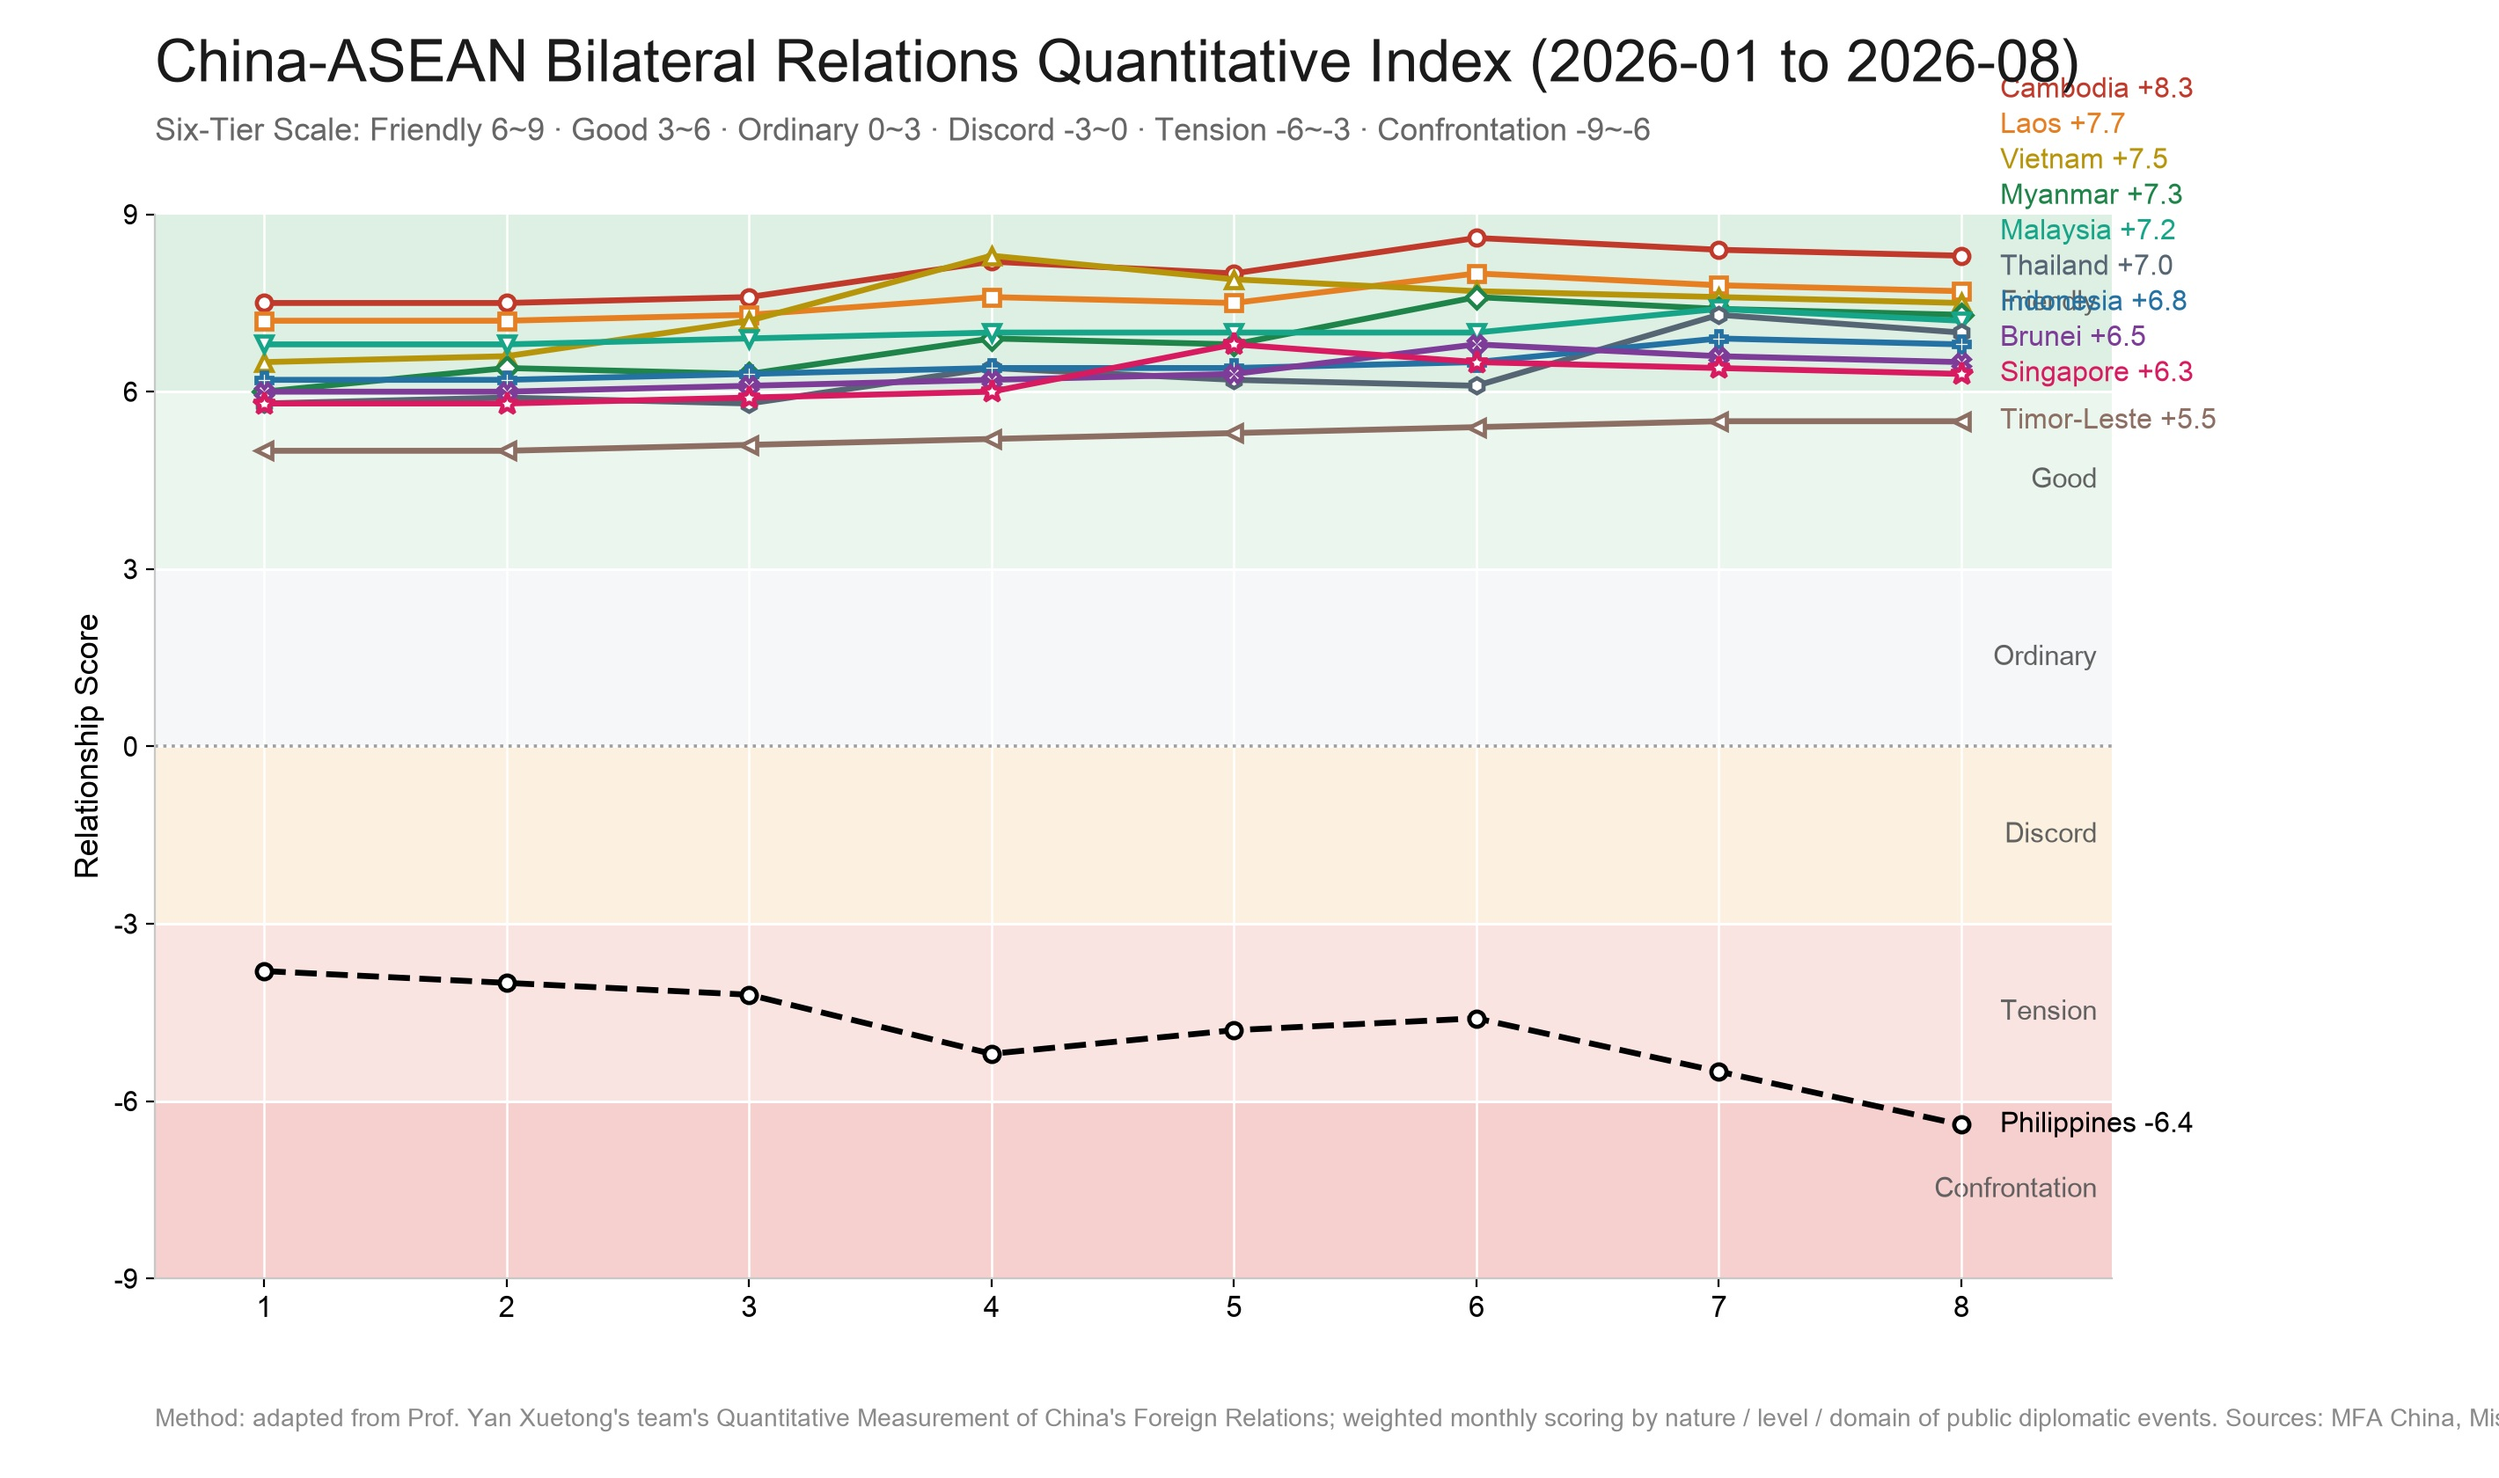
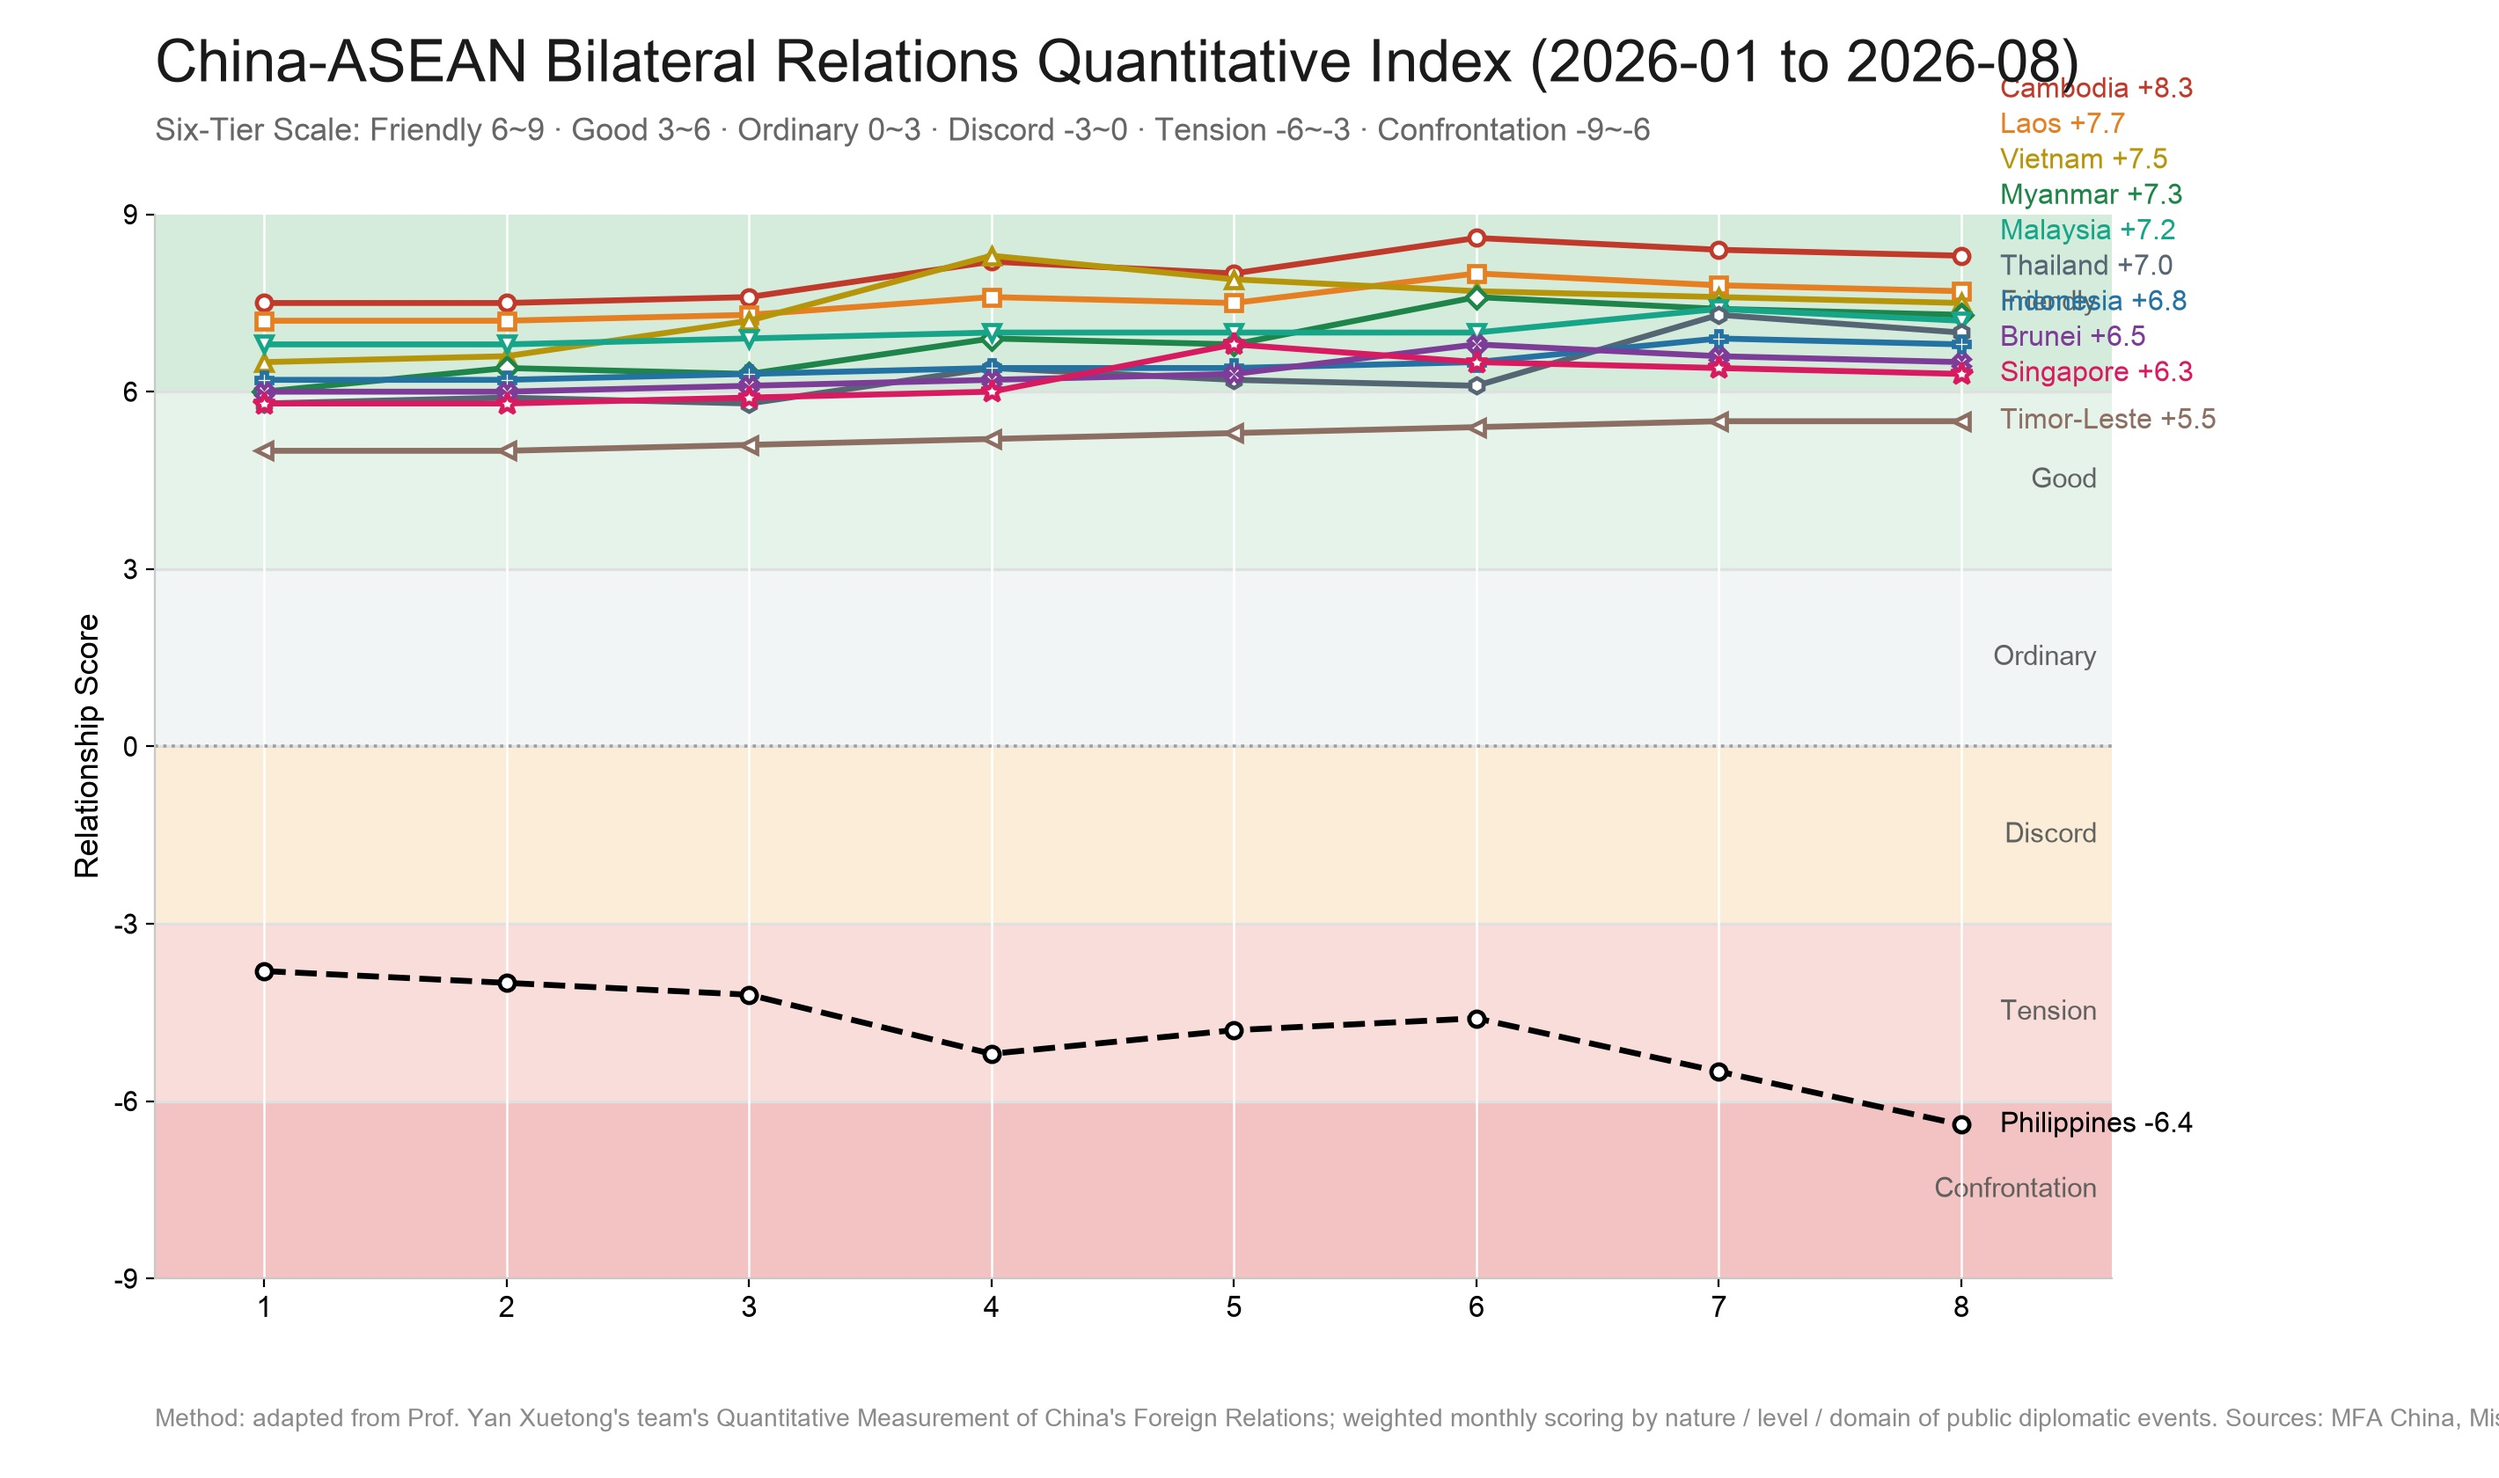
中国—东盟指数图表增强背景色带可见性（中英脚本+8月图）
- bands() alpha 0.55 -> 0.70，背景六等级色带更分明
- 等级分隔线颜色 #ffffff -> #e0e0e0、线宽 1.1 -> 1.2，避免在白色背景上消失
- 同步更新 zh/en 脚本及 2026-08 四张输出图（含简版）

diff --git a/scripts/plot_china_asean.py b/scripts/plot_china_asean.py
@@ -84,13 +84,13 @@ def bands(ax, lo=-9, hi=9, label=True, x0=0.55, x1=None):
             continue
         aa, bb = max(a, lo), min(b, hi)
         ax.add_patch(Rectangle((x0, aa), x1 - x0, bb - aa, facecolor=col,
-                               alpha=.55, edgecolor="none", zorder=0))
+                               alpha=.70, edgecolor="none", zorder=0))
         if label and (bb - aa) > 1.2:
             ax.text(x1 - .06, (aa + bb) / 2, nm, ha="right", va="center",
                     fontproperties=F(11), color="#5a5a5a", alpha=.95, zorder=1)
     for a, b, nm, col in TIERS:
         if lo < a < hi:
-            ax.axhline(a, color="#ffffff", lw=1.1, zorder=1)
+            ax.axhline(a, color="#e0e0e0", lw=1.2, zorder=1)
 
 
 def spread(pairs, gap):

diff --git a/scripts/plot_china_asean_en.py b/scripts/plot_china_asean_en.py
@@ -82,13 +82,13 @@ def bands(ax, lo=-9, hi=9, label=True, x0=0.55, x1=None):
             continue
         aa, bb = max(a, lo), min(b, hi)
         ax.add_patch(Rectangle((x0, aa), x1 - x0, bb - aa, facecolor=col,
-                               alpha=.55, edgecolor="none", zorder=0))
+                               alpha=.70, edgecolor="none", zorder=0))
         if label and (bb - aa) > 1.2:
             ax.text(x1 - .06, (aa + bb) / 2, nm, ha="right", va="center",
                     fontproperties=F(11), color="#5a5a5a", alpha=.95, zorder=1)
     for a, b, nm, col in TIERS:
         if lo < a < hi:
-            ax.axhline(a, color="#ffffff", lw=1.1, zorder=1)
+            ax.axhline(a, color="#e0e0e0", lw=1.2, zorder=1)
 
 
 def spread(pairs, gap):
